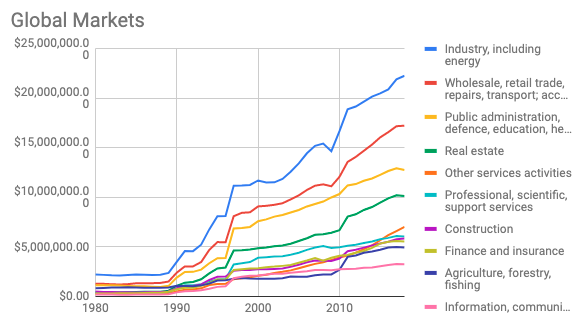
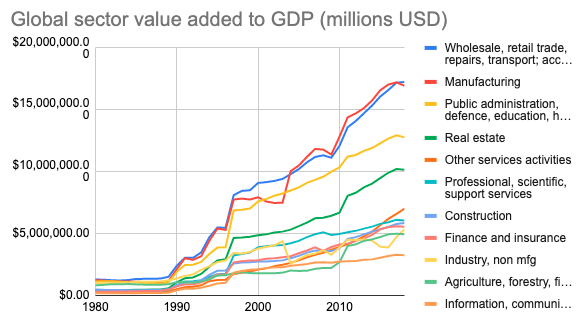
update graph and readme

diff --git a/README.md b/README.md
@@ -1,4 +1,4 @@
-I want to get global per activity GDP over time.
+When one is deciding where to start a business, it might make sense to start by doing a top down analysis of the global economy. One way to approach this is to start from Gross World Product and break it into a hierarchy of economic sectors.
 
 I do this using OECD data:
 
